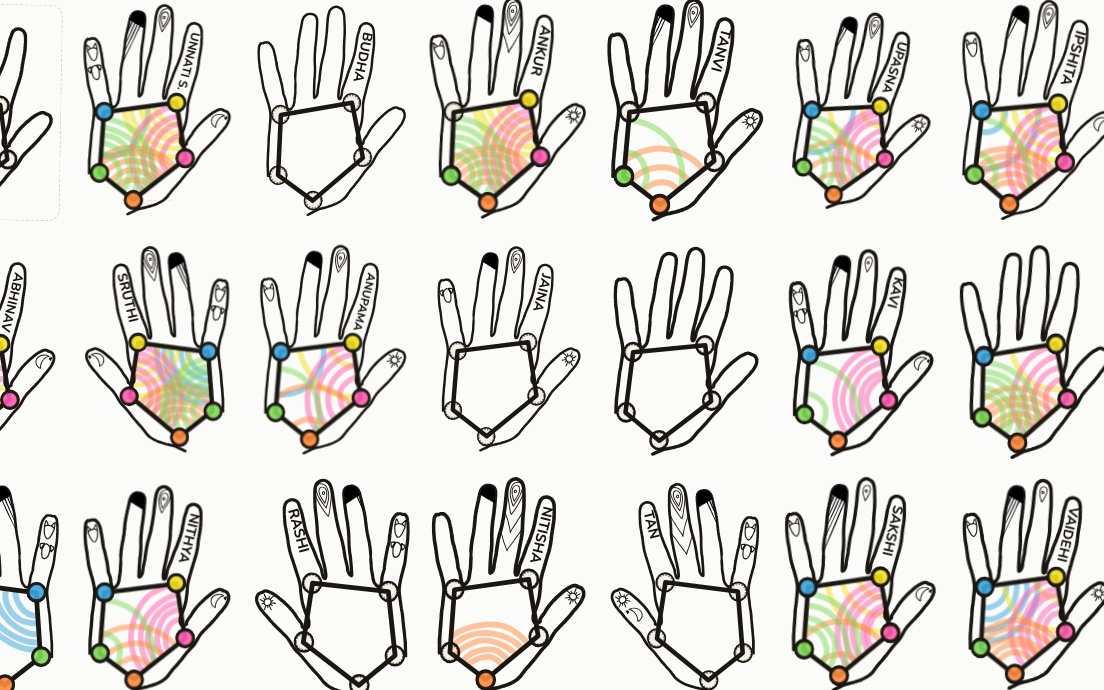
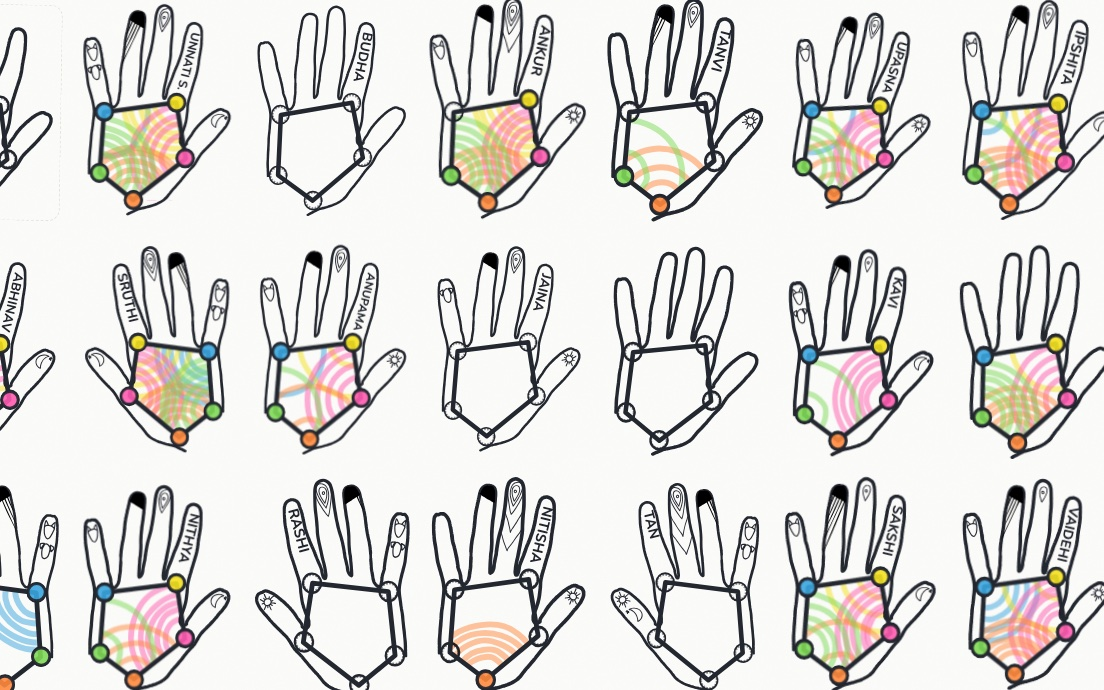
hands-of-vizchitra: retheme chrome onto theme-paper tokens
Drop the local paper/ink palette and Rozha/Spectral fonts; page chrome
now uses the shared tokens (--bg/--text/--muted/--border/--card-bg,
Bricolage display + Nunito) and theme-paper idioms: purple primary
pills, tinted accent-cycling chips, flat purple offset shadow on the
lightbox card. The five highlighter marker colors and the SVG pentagon
dots stay as-is — they encode the real marker colors from the traced
hands (data, not theme). Thumbnail re-shot on the new background.

diff --git a/hands-of-vizchitra/index.html b/hands-of-vizchitra/index.html
@@ -7,49 +7,35 @@
 <link rel="icon" type="image/svg+xml" href="/favicon.svg">
 <link rel="icon" type="image/png" href="/favicon.png">
 <link rel="stylesheet" href="/styles.css">
-<link rel="preconnect" href="https://fonts.googleapis.com">
-<link href="https://fonts.googleapis.com/css2?family=Rozha+One&family=Spectral:ital,wght@0,400;0,600;1,400&family=Nunito:wght@400;600;700&display=swap" rel="stylesheet">
 <script src="https://cdnjs.cloudflare.com/ajax/libs/PapaParse/5.4.1/papaparse.min.js"></script>
 <style>
   :root{
-    /* PAPER palette — off-white ground, ink line, marker highlighters. */
-    --paper:#f5f1e8; --paper-2:#efe9dc; --ink:#1a1712; --ink-soft:#5c554a;
-    --rule:#d8cfbd;
-    /* Highlighter marker colors, matched to Aditi's real Vizchitra hand:
-       Develop=blue, Collect=yellow, Design=pink, Narrate=orange, Analyze=green.
-       Bright + saturated so multiply-overlap reads like real marker. */
+    /* DATA colors, not theme: highlighter markers matched to Aditi's real
+       Vizchitra hand (Develop=blue, Collect=yellow, Design=pink,
+       Narrate=orange, Analyze=green). Bright + saturated so multiply-overlap
+       reads like real marker. Page chrome uses the theme-paper tokens
+       from /styles.css. */
     --develop:#3aa5e0; --collect:#f4e11e; --design:#ff5bb0;
     --narrate:#ff8a3d; --analyze:#7ed957;
   }
   *{box-sizing:border-box;}
-  html,body{margin:0;background:var(--paper);color:var(--ink);
-    font-family:'Spectral',Georgia,serif;}
-  /* keep the piece's own paper tooth; drop the site-wide grain overlay */
-  body::before{content:none;}
-  body{
-    /* faint paper tooth: two offset dot grids + a warm vignette */
-    background-image:
-      radial-gradient(var(--paper-2) 1px, transparent 1.4px),
-      radial-gradient(var(--paper-2) 1px, transparent 1.4px);
-    background-size:22px 22px, 22px 22px;
-    background-position:0 0, 11px 11px;
-    min-height:100vh;
-  }
+  html,body{margin:0;background:var(--bg);color:var(--text);font-family:var(--hand);}
+  body{min-height:100vh;}
   header{padding:40px 30px 8px;max-width:1120px;}
-  .eyebrow{font-family:'Nunito',sans-serif;font-size:12px;letter-spacing:.18em;
-    text-transform:uppercase;color:var(--ink-soft);margin:0 0 10px;}
-  h1{font-family:'Rozha One',serif;font-weight:400;font-size:clamp(32px,5.4vw,58px);
+  .eyebrow{font-family:var(--hand);font-weight:700;font-size:12px;letter-spacing:.08em;
+    text-transform:uppercase;color:var(--muted);margin:0 0 10px;}
+  h1{font-family:var(--display);font-weight:700;font-size:clamp(32px,5.4vw,58px);
     margin:0;line-height:1.02;}
-  .lede{font-size:15.5px;color:var(--ink-soft);margin:14px 0 0;max-width:640px;line-height:1.55;}
+  .lede{font-size:15.5px;color:var(--muted);margin:14px 0 0;max-width:640px;line-height:1.55;}
 
   /* legend as marker swatches, not neat dots */
   .key{display:flex;flex-wrap:wrap;gap:16px;margin:22px 0 2px;
-    font-family:'Nunito',sans-serif;font-size:12.5px;}
-  .key span{display:inline-flex;align-items:center;gap:7px;color:var(--ink-soft);}
+    font-family:var(--hand);font-size:12.5px;}
+  .key span{display:inline-flex;align-items:center;gap:7px;color:var(--muted);}
   .swatch{width:22px;height:11px;border-radius:2px;display:inline-block;
     transform:rotate(-2deg);mix-blend-mode:multiply;opacity:.85;}
 
-  .status{font-family:'Nunito',sans-serif;font-size:12.5px;color:var(--ink-soft);
+  .status{font-family:var(--hand);font-size:12.5px;color:var(--muted);
     padding:10px 30px 0;}
 
   .stripwrap{position:relative;margin-top:14px;padding:6px 0 44px;}
@@ -59,7 +45,7 @@
     grid-template-columns:repeat(auto-fill, minmax(var(--tw), 1fr));
     gap:0; align-items:center; justify-items:center;
     padding:34px 20px 40px;
-    border-top:1px solid var(--rule);border-bottom:1px solid var(--rule);
+    border-top:1px solid var(--border);border-bottom:1px solid var(--border);
   }
   /* Phone: pack 3 across (was 2) so you still get the mass on a small screen */
   @media (max-width:520px){
@@ -88,18 +74,18 @@
   .tile.clickable:hover{
     /* on hover, straighten up and lift above neighbours to read clearly */
     transform:translate(var(--dx,0), calc(var(--dy,0) - 8px)) rotate(0deg) scale(1.06);
-    z-index:50 !important; filter:drop-shadow(0 6px 10px rgba(40,30,10,.18));
+    z-index:50 !important; filter:drop-shadow(0 6px 10px rgba(80,32,100,.18));
   }
   .tile .card{position:relative;width:var(--tw);height:var(--th);}
   .tile svg{display:block;width:100%;height:100%;overflow:visible;}
-  .tile .nm{font-family:'Nunito',sans-serif;font-size:11px;color:var(--ink-soft);
+  .tile .nm{font-family:var(--hand);font-size:11px;color:var(--muted);
     max-width:200px;overflow:hidden;text-overflow:ellipsis;white-space:nowrap;
     margin-top:0;opacity:0;transition:opacity .15s;}
   .tile:hover .nm{opacity:.9;}
-  .tile .nm.unk{color:var(--ink-soft);font-style:italic;}
+  .tile .nm.unk{color:var(--muted);font-style:italic;}
   .tile .hint{display:none;}
   .tile.pair .card::after{content:"";position:absolute;inset:-4px -8px;
-    border:1px dashed var(--rule);border-radius:12px;pointer-events:none;}
+    border:1px dashed var(--border);border-radius:12px;pointer-events:none;}
 
   /* ---- view toggle -------------------------------------------------------- */
   .viewbar{display:flex;gap:14px;justify-content:center;align-items:center;
@@ -107,23 +93,23 @@
   .vb-views{display:flex;gap:6px;}
   .vb-search{position:relative;display:flex;align-items:center;gap:8px;}
   .vb-search input{
-    font-family:'Nunito',sans-serif;font-size:12.5px;color:var(--ink);
-    background:#fffdf8;border:1px solid var(--rule);border-radius:999px;
+    font-family:var(--hand);font-size:12.5px;color:var(--text);
+    background:var(--card-bg);border:1px solid var(--border);border-radius:999px;
     padding:6px 15px;width:190px;outline:none;transition:border-color .15s, width .18s;}
-  .vb-search input::placeholder{color:var(--ink-soft);}
-  .vb-search input:focus{border-color:var(--ink-soft);width:220px;}
-  .search-count{font-family:'Nunito',sans-serif;font-size:11px;color:var(--ink-soft);
+  .vb-search input::placeholder{color:var(--muted);}
+  .vb-search input:focus{border-color:var(--accent2);width:220px;}
+  .search-count{font-family:var(--hand);font-size:11px;color:var(--muted);
     min-width:40px;}
   /* search states applied to tiles */
   .strip.searching .tile{opacity:.16;filter:grayscale(.5);transition:opacity .18s, filter .18s;}
   .strip.searching .tile.match{opacity:1;filter:none;z-index:40;}
   /* always show the matched person's name, even in field/fit where nm is hidden */
   .strip.searching .tile.match .nm{opacity:.95 !important;display:block !important;}
-  .vb-btn{font-family:'Nunito',sans-serif;font-size:12px;letter-spacing:.02em;
-    color:var(--ink-soft);background:transparent;border:1px solid var(--rule);
+  .vb-btn{font-family:var(--hand);font-weight:700;font-size:12px;letter-spacing:.02em;
+    color:var(--muted);background:var(--card-bg);border:1px solid var(--border);
     border-radius:999px;padding:5px 15px;cursor:pointer;transition:all .15s;}
-  .vb-btn:hover{color:var(--ink);border-color:var(--ink-soft);}
-  .vb-btn.active{background:var(--ink);color:var(--paper);border-color:var(--ink);}
+  .vb-btn:hover{color:var(--accent2);border-color:var(--accent2);}
+  .vb-btn.active{background:var(--accent2);color:#fff;border-color:var(--accent2);}
 
   /* SCROLL mode: horizontal, but rows stagger so it's a messy band, not a line */
   /* SCROLL mode: horizontal, but rows stagger so it's a messy band, not a line.
@@ -144,7 +130,7 @@
       rotate(calc(var(--rot,0)*.7)) scale(var(--scl,1));
   }
   .strip.view-scroll::-webkit-scrollbar{height:8px;}
-  .strip.view-scroll::-webkit-scrollbar-thumb{background:#cabfa6;border-radius:6px;}
+  .strip.view-scroll::-webkit-scrollbar-thumb{background:var(--border);border-radius:6px;}
 
   /* FIT mode: every hand shrinks to fluid cells so ALL fit in one screen and
      FILL the viewport (both width and height). */
@@ -164,64 +150,69 @@
   }
   .strip.view-fit .nm{display:none;}
 
-  .panel{margin:20px 30px;max-width:700px;font-family:'Nunito',sans-serif;font-size:13px;
-    color:var(--ink-soft);}
-  .panel textarea{width:100%;height:150px;background:#fffdf8;color:var(--ink);
-    border:1px solid var(--rule);border-radius:8px;padding:10px;
+  .panel{margin:20px 30px;max-width:700px;font-family:var(--hand);font-size:13px;
+    color:var(--muted);}
+  .panel textarea{width:100%;height:150px;background:var(--card-bg);color:var(--text);
+    border:1px solid var(--border);border-radius:8px;padding:10px;
     font-family:ui-monospace,monospace;font-size:12px;}
-  .panel button{margin-top:10px;background:var(--ink);color:var(--paper);border:0;
-    border-radius:8px;padding:9px 18px;font-weight:700;cursor:pointer;
-    font-family:'Nunito',sans-serif;}
+  .panel button{margin-top:10px;background:var(--accent2);color:#fff;border:0;
+    border-radius:999px;padding:9px 18px;font-weight:700;cursor:pointer;
+    font-family:var(--hand);}
   .hidden{display:none;}
-  footer#footer{font-family:'Nunito',sans-serif;font-size:11.5px;color:var(--ink-soft);
+  footer#footer{font-family:var(--hand);font-size:11.5px;color:var(--muted);
     padding:4px 30px 56px;max-width:820px;line-height:1.7;}
-  footer#footer code{background:var(--paper-2);padding:1px 5px;border-radius:4px;}
+  footer#footer code{background:var(--border);padding:1px 5px;border-radius:4px;}
 
   /* lightbox — paper card, ink frame */
-  #lb{position:fixed;inset:0;background:rgba(26,23,18,.72);
+  #lb{position:fixed;inset:0;background:rgba(35,39,48,.72);
     backdrop-filter:blur(3px);display:none;align-items:center;justify-content:center;
     z-index:50;padding:24px;}
   #lb.open{display:flex;}
-  .lbcard{display:flex;gap:26px;max-width:960px;max-height:88vh;background:var(--paper);
-    border:1px solid var(--rule);border-radius:14px;padding:22px;overflow:auto;
-    box-shadow:0 24px 70px rgba(0,0,0,.35);}
+  .lbcard{display:flex;gap:26px;max-width:960px;max-height:88vh;background:var(--card-bg);
+    border:1px solid var(--border);border-radius:16px;padding:22px;overflow:auto;
+    box-shadow:0 8px 0 rgba(80,32,100,.25);}
   .lbleft{flex:1 1 42%;display:flex;flex-direction:column;min-width:220px;}
   .lbright{flex:1 1 44%;display:flex;flex-direction:column;gap:14px;min-width:260px;}
   .lbvisuals{display:flex;gap:16px;align-items:flex-start;flex-wrap:wrap;}
   .lbcoded,.lbimgwrap{display:flex;flex-direction:column;align-items:center;gap:6px;}
-  .lblabel{font-family:'Nunito',sans-serif;font-size:10.5px;letter-spacing:.12em;
-    text-transform:uppercase;color:var(--ink-soft);}
+  .lblabel{font-family:var(--hand);font-size:10.5px;letter-spacing:.12em;
+    text-transform:uppercase;color:var(--muted);}
   .lbcodedslot{width:min(28vw,240px);}
   .lbhand{width:100%;height:auto;aspect-ratio:var(--tw) / var(--th);
-    background:var(--paper);}
+    background:var(--card-bg);}
   .lbcard img{max-height:74vh;max-width:44vw;border-radius:8px;object-fit:contain;
-    background:#fff;border:1px solid var(--rule);}
+    background:var(--card-bg);border:1px solid var(--border);}
   .lbimgwrap{align-items:center;justify-content:center;flex:1;
     min-width:200px;min-height:220px;}
-  .lbloading{font-family:'Nunito',sans-serif;font-size:13px;color:var(--ink-soft);
+  .lbloading{font-family:var(--hand);font-size:13px;color:var(--muted);
     padding:40px 30px;}
-  .lbmiss{font-family:'Nunito',sans-serif;font-size:13px;color:var(--ink-soft);
+  .lbmiss{font-family:var(--hand);font-size:13px;color:var(--muted);
     text-align:center;padding:36px 24px;line-height:1.6;}
-  .lbmiss a{color:var(--ink);font-weight:700;}
-  .lbinfo{min-width:230px;max-width:310px;font-family:'Nunito',sans-serif;
+  .lbmiss a{color:var(--text);font-weight:700;}
+  .lbinfo{min-width:230px;max-width:310px;font-family:var(--hand);
     display:flex;flex-direction:column;}
-  .lbinfo h2{font-family:'Rozha One',serif;font-weight:400;font-size:30px;
-    margin:0 0 2px;color:var(--ink);}
-  .lbinfo .sub{font-size:12px;color:var(--ink-soft);margin-bottom:14px;
-    font-family:ui-monospace,monospace;}
+  .lbinfo h2{font-family:var(--display);font-weight:700;font-size:30px;
+    margin:0 0 2px;color:var(--text);}
+  .lbinfo .sub{font-size:12px;color:var(--muted);margin-bottom:14px;
+    font-family:var(--hand);font-weight:700;text-transform:uppercase;
+    letter-spacing:.08em;}
   .chips{display:flex;flex-wrap:wrap;gap:6px;margin-bottom:16px;}
-  .chip{font-size:11.5px;background:var(--paper-2);border:1px solid var(--rule);
-    color:var(--ink-soft);border-radius:999px;padding:3px 11px;}
-  .ratings{font-size:12px;color:var(--ink-soft);line-height:1.9;margin-bottom:14px;}
-  .ratings b{color:var(--ink);font-weight:700;}
-  .note{font-family:'Spectral',serif;font-size:13.5px;color:var(--ink);
-    font-style:italic;line-height:1.5;border-left:2px solid var(--rule);
+  .chip{font-size:11.5px;border:0;color:var(--text);border-radius:999px;
+    padding:3px 11px;background:rgba(63,167,150,.10);}
+  /* rotate chips through the four accents: teal, lilac, yellow, purple */
+  .chip:nth-child(4n+2){background:rgba(130,103,190,.10);}
+  .chip:nth-child(4n+3){background:rgba(255,189,53,.14);}
+  .chip:nth-child(4n+4){background:rgba(80,32,100,.08);}
+  .ratings{font-size:12px;color:var(--muted);line-height:1.9;margin-bottom:14px;}
+  .ratings b{color:var(--text);font-weight:700;}
+  .note{font-family:var(--hand);font-size:13.5px;color:var(--text);
+    font-style:italic;line-height:1.5;border-left:2px solid var(--accent2);
     padding-left:12px;margin-bottom:16px;}
-  .lbopen{margin-top:auto;font-size:12px;color:var(--ink);font-weight:700;
-    text-decoration:none;border-bottom:1px solid var(--ink);align-self:flex-start;
+  .lbopen{margin-top:auto;font-size:12px;color:var(--accent2);font-weight:700;
+    text-decoration:none;border-bottom:1px solid var(--accent2);align-self:flex-start;
     padding-bottom:1px;}
-  .lbclose{position:absolute;top:20px;right:26px;color:var(--paper);font-size:30px;
-    cursor:pointer;font-family:'Nunito',sans-serif;line-height:1;}
+  .lbclose{position:absolute;top:20px;right:26px;color:#fff;font-size:30px;
+    cursor:pointer;font-family:var(--hand);line-height:1;}
   @media(max-width:680px){.lbcard{flex-direction:column;}
     .lbcard img{max-width:80vw;max-height:48vh;}}
 </style>
@@ -1581,8 +1572,8 @@ function paperTreatment(svg, inkMul=1){
   for(const kn of KNUCKLES){
     const el=resolveEl(svg,kn.id); if(!el) continue;
     const e=el.querySelector("ellipse")||el;
-    e.style.fill="var(--paper)";
-    e.style.stroke="var(--ink)";
+    e.style.fill="var(--bg)";
+    e.style.stroke="var(--text)";
     e.style.strokeWidth=round(26)+"px";
   }
   // Kill the SVG-level default fill that makes the outline read as a black
@@ -1593,11 +1584,11 @@ function paperTreatment(svg, inkMul=1){
     const paths=[...hand.querySelectorAll("path")].sort((a,b)=>{
       const ba=a.getBBox(),bb=b.getBBox();return (bb.width*bb.height)-(ba.width*ba.height);});
     // largest path = the hand outline: no fill, firm ink stroke
-    if(paths[0]){paths[0].style.fill="none";paths[0].style.stroke="var(--ink)";
+    if(paths[0]){paths[0].style.fill="none";paths[0].style.stroke="var(--text)";
       paths[0].style.strokeWidth=round(20)+"px";paths[0].style.strokeLinejoin="round";}
     // remaining paths inside #hand are drawn detail (glyph line work): ink stroke,
     // keep them unfilled so they read as pen marks on paper.
-    paths.slice(1).forEach(p=>{p.style.fill="none";p.style.stroke="var(--ink)";
+    paths.slice(1).forEach(p=>{p.style.fill="none";p.style.stroke="var(--text)";
       if(!p.style.strokeWidth)p.style.strokeWidth=round(14)+"px";});
   }
   // Glyph groups (pets, chrono, distance, viz) sit as siblings of #hand.
@@ -1621,9 +1612,9 @@ function paperTreatment(svg, inkMul=1){
     el.querySelectorAll("path,ellipse,circle,line,polyline,polygon").forEach(p=>{
       const cs=getComputedStyle(p);
       // recolor dark fills to ink, keep light/none fills as-is
-      if(isDark(p.style.fill||cs.fill)) p.style.fill="var(--ink)";
+      if(isDark(p.style.fill||cs.fill)) p.style.fill="var(--text)";
       // recolor dark strokes to ink; leave stroke width/caps as authored
-      if(isDark(p.style.stroke||cs.stroke)) p.style.stroke="var(--ink)";
+      if(isDark(p.style.stroke||cs.stroke)) p.style.stroke="var(--text)";
     });
   }
 }
@@ -1670,7 +1661,7 @@ function codeGlyph(svg,slot,val){
   // rough finger positions in viewBox space (index/middle splay)
   const at=slot==="pet"?{x:4700,y:6400}:{x:5200,y:3200};
   const put=(el,attrs)=>{for(const k in attrs)el.setAttribute(k,attrs[k]);g.appendChild(el);return el;};
-  const stroke={fill:"none",stroke:"var(--ink)","stroke-width":34,"stroke-linecap":"round"};
+  const stroke={fill:"none",stroke:"var(--text)","stroke-width":34,"stroke-linecap":"round"};
   if(slot==="pet"&&val==="dog"){
     put(document.createElementNS(NS,"circle"),{cx:at.x,cy:at.y,r:120,...stroke});
     put(document.createElementNS(NS,"ellipse"),{cx:at.x-95,cy:at.y-70,rx:45,ry:80,...stroke});
@@ -1681,7 +1672,7 @@ function codeGlyph(svg,slot,val){
   }else if(slot==="chrono"&&val==="night"){
     put(document.createElementNS(NS,"path"),
       {d:`M ${at.x+120} ${at.y} a 130 130 0 1 1 -120 -175 a 100 100 0 1 0 120 175 z`,
-       fill:"var(--ink)",stroke:"none"});
+       fill:"var(--text)",stroke:"none"});
   }else if(slot==="chrono"&&val==="both"){
     put(document.createElementNS(NS,"circle"),{cx:at.x,cy:at.y,r:70,...stroke});
     for(let a=0;a<360;a+=45){const t=a*Math.PI/180;
@@ -1763,7 +1754,7 @@ function drawPentagon(svg,d){
   const line=document.createElementNS(NS,"polygon");
   line.setAttribute("points",polyPts);
   line.setAttribute("style",
-    `fill:none;stroke:var(--ink);stroke-width:${Math.round(meanR*0.09)};`+
+    `fill:none;stroke:var(--text);stroke-width:${Math.round(meanR*0.09)};`+
     `stroke-linejoin:round;stroke-linecap:round`);
   svg.appendChild(line);
 
@@ -1783,7 +1774,7 @@ function drawPentagon(svg,d){
     const ring=document.createElementNS(NS,"circle");
     ring.setAttribute("cx",cx);ring.setAttribute("cy",cy);ring.setAttribute("r",R);
     ring.setAttribute("style",
-      `fill:none;stroke:var(--ink);stroke-width:${Math.round(meanR*0.055)};`+
+      `fill:none;stroke:var(--text);stroke-width:${Math.round(meanR*0.055)};`+
       (val==null?"stroke-dasharray:20 16;opacity:.5":"opacity:.92"));
     svg.appendChild(ring);
   }
@@ -1865,7 +1856,7 @@ function drawName(svg,d){
   text.setAttribute("data-fitlen", (L*0.94).toFixed(0));
   text.setAttribute("data-fs", startFS.toFixed(1));
   text.setAttribute("style",
-    `font-family:'Nunito',sans-serif;font-weight:700;fill:var(--ink);`+
+    `font-family:var(--hand);font-weight:700;fill:var(--text);`+
     `font-size:${Math.round(startFS)}px;letter-spacing:1px;`);
   svg.appendChild(text);
 }
@@ -1878,7 +1869,7 @@ function fitNames(root){
     let fs=parseFloat(text.getAttribute("data-fs"))||100, ls=1, guard=0;
     if(!avail) return;
     const apply=()=>text.style.cssText=
-      `font-family:'Nunito',sans-serif;font-weight:700;fill:var(--ink);`+
+      `font-family:var(--hand);font-weight:700;fill:var(--text);`+
       `font-size:${fs.toFixed(1)}px;letter-spacing:${ls}px;`;
     let len=0; try{len=text.getComputedTextLength();}catch(e){return;}
     while(len>avail && fs>26 && guard++<40){
@@ -1946,7 +1937,7 @@ function openLightbox(d){
     `<div class="lbleft">${imgWrap}</div>`+
     `<div class="lbright">`+
       `<div class="lbcoded"><div class="lblabel">coded</div><div class="lbcodedslot" id="lbcodedslot"></div></div>`+
-      `<div class="lbinfo"><h2>${d.name||"Unnamed hand"}${d.uncertain?' <span style="font-size:14px;color:var(--ink-soft)">(name uncertain)</span>':''}</h2>`+
+      `<div class="lbinfo"><h2>${d.name||"Unnamed hand"}${d.uncertain?' <span style="font-size:14px;color:var(--muted)">(name uncertain)</span>':''}</h2>`+
       `<div class="sub">${d.id?"#"+d.id:""}${d.pair?" · pair":""}</div>`+
       `<div class="chips">${chips(d)}</div>`+ratingsLine(d)+note+
       `</div>`+
